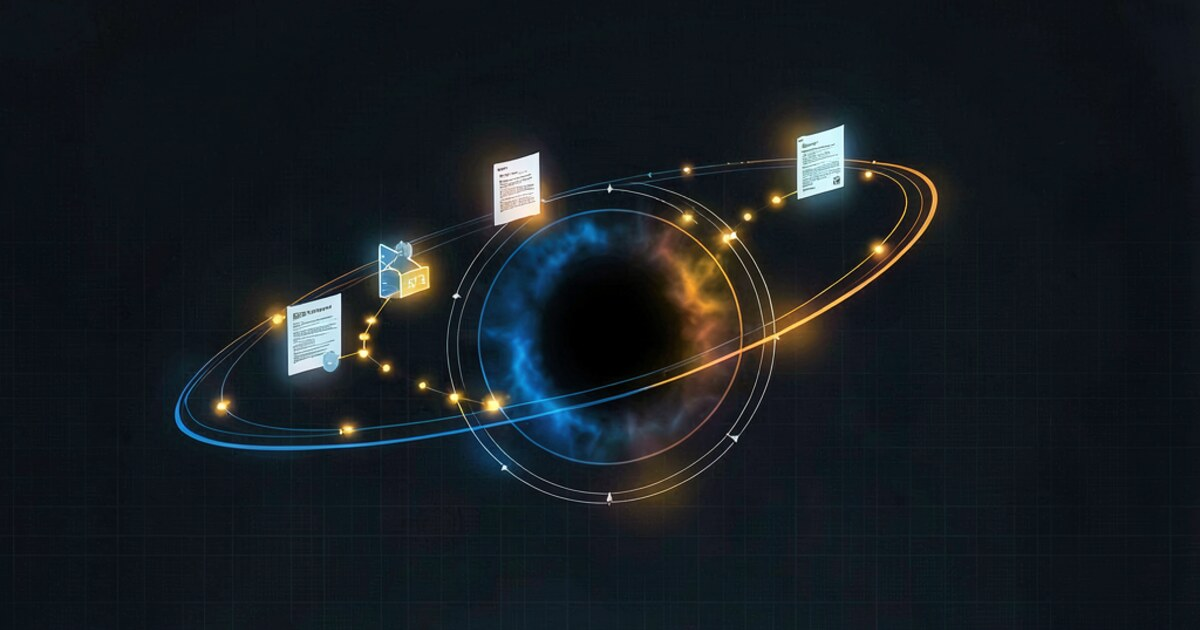
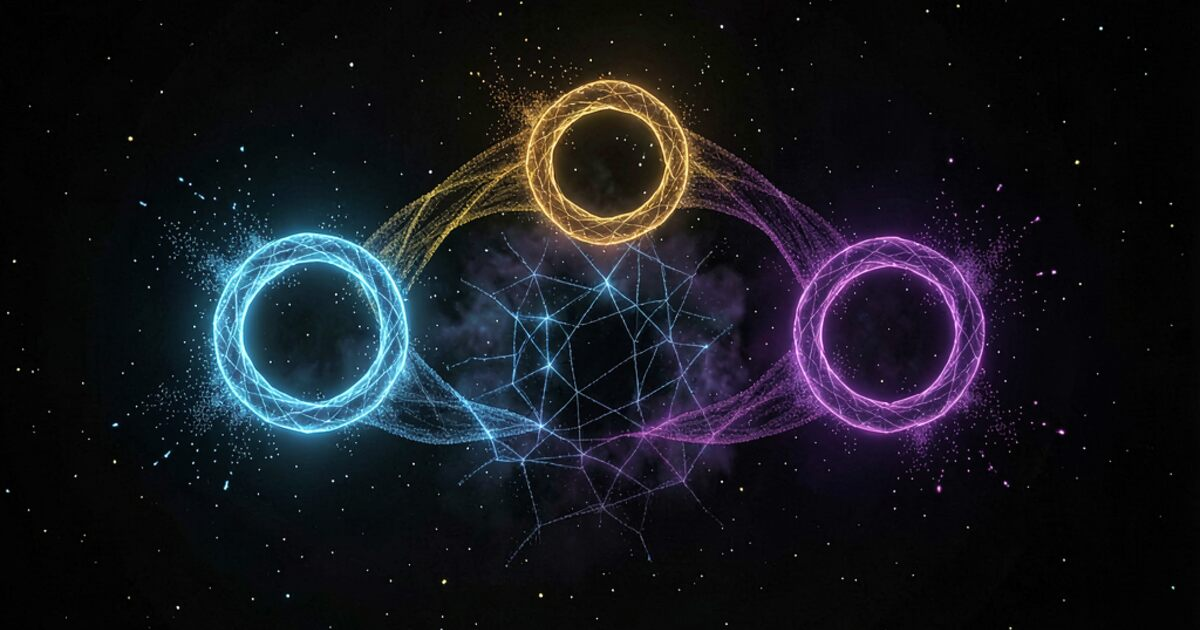
feat(blog): publish applied-compute-specific-intelligence-enterprise-ai-workflow-training

diff --git a/src/content/blog/applied-compute-specific-intelligence-enterprise-ai-workflow-training.md b/src/content/blog/applied-compute-specific-intelligence-enterprise-ai-workflow-training.md
@@ -1,12 +1,12 @@
 ---
-title: "Applied Compute 的「具体智能」：企业 AI 的账，从调用量转向闭环"
+title: "Applied Compute 深度拆解：OpenAI 系团队的「具体智能」，RL 三环架构如何把企业 AI 做成工业品"
 titleEn: "applied-compute-specific-intelligence-enterprise-ai-workflow-training"
-description: "Applied Compute 把自己的产品叫做 Specific Intelligence（具体智能）。不是通用聊天，是窄边界、严标准、每天重复发生的业务任务——识别菜单、审阅合同、处理发票、发现代码缺陷。做法是把企业知识、工作流、绩效标准和历史决策放进训练与部署闭环，让系统逐步接近企业认可的工作方式。30 亿美元估值隐含三层预期：收入质量、成本结构和反馈飞轮。"
-descriptionEn: "Applied Compute calls their product 'Specific Intelligence.' Not general chat — narrow, precise, repeating business tasks: restaurant menus, contract clauses, invoices, code defects. Their approach: feed enterprise knowledge, workflows, standards, and historical decisions into a training-and-deployment loop that continuously improves toward each company's own working standards. The $3B valuation implies three expectations: revenue quality, cost structure, and a feedback flywheel."
+description: "Applied Compute 创始团队来自 OpenAI Codex 与 o1，CEO Yash Patil 的核心判断：前沿模型商品化之后，竞争层移到后训练。产品「具体智能（Specific Intelligence）」以强化学习为核心机制，围绕 Rollout-Eval-Inference 三环构建企业专用 AI 闭环。DoorDash 菜单提取、Cognition 代码缺陷检测、Mercor 人才评估是已披露的三个案例。30 亿美元估值背后是四层硬风险：定制化滑向咨询、开源压低价格、大厂抢占后训练、估值与经营结果的时间差。"
+descriptionEn: "Applied Compute's founding team came from OpenAI Codex and o1. CEO Yash Patil's thesis: as frontier models commoditize, the competitive layer moves to post-training. Their product Specific Intelligence uses reinforcement learning as the core mechanism, building enterprise AI via a Rollout-Eval-Inference loop. Disclosed clients: DoorDash (menu extraction), Cognition (code defect detection), Mercor (talent evaluation). Four hard risks behind the $3B valuation: customization creep toward consulting, open-source price compression, big-tech entering post-training, and the gap between valuation and operating results."
 pubDate: "2026-08-13"
 updatedDate: "2026-08-13"
 category: "Tech-News"
-tags: ["企业AI", "Applied Compute", "具体智能", "RLHF", "开源模型", "AI商业化", "Agent", "Mycelium"]
+tags: ["企业AI", "Applied Compute", "强化学习", "后训练", "Specific Intelligence", "AI商业化", "Agent", "Mycelium"]
 heroImage: "../../assets/images/applied-compute-specific-intelligence-enterprise-ai-workflow-training-banner.jpg"
 author: "Mycelium Protocol"
 ---
@@ -15,74 +15,143 @@ author: "Mycelium Protocol"
 
 ---
 
-Applied Compute 给自己的产品起了一个名字：**Specific Intelligence（具体智能）**。
+Applied Compute 的创始团队来自 OpenAI 的 Codex 和 o1 项目。CEO Yash Patil 在 Modal 的案例视频里说了一句话，算得上是这家公司的核心判断：
 
-通用模型解决的是广泛能力。企业真正需要的，往往是边界很窄、标准很严、每天重复发生的任务——识别一张餐厅菜单后生成结构化门店信息，审阅合同中的特定条款，按照公司内部规则处理一张发票，或者在代码提交后迅速找到某一类缺陷。
+> "Frontier models set the floor, specialized models and custom post-training raise the ceiling."
+>
+> 前沿模型划定了地板，专门化模型和定制后训练才能抬高天花板。
 
-这些任务看起来没有聊天机器人耀眼，却直接连接收入、成本和交付质量。企业愿意付费，前提是模型理解自身上下文，遵循内部标准，出了错误还能被追踪和修正。
+这套判断不是新鲜话，但 Applied Compute 把它变成了一套可以卖给企业的工程产品。他们叫它 **Specific Intelligence（具体智能）**——不是通用聊天，是为一家公司、在它的数据上训练、每次使用后还在持续改进的专用 AI。
 
----
-
-## 产品逻辑：不是 API，是运行中的工作系统
-
-Applied Compute 在官网描述的链路包括四个环节：
-
-1. 摄入机构知识（institutional knowledge）
-2. 针对具体工作流训练 agent
-3. 把 agent 部署到生产环境
-4. 把每次决策和反馈送回训练环节
-
-这套产品思路与通用 API 有明显区别。API 按调用提供能力，企业拿到的是一段可以继续开发的模型服务；Specific Intelligence 更靠近一个**长期运行的工作系统**——企业提供数据、评估标准和反馈，平台把这些东西转化成可持续改进的模型和 agent。
-
-与 Modal 披露的案例给出了具体画面：针对 DoorDash，公司训练过处理餐厅菜单的模型；针对 Cognition，则设计过帮助开发者快速发现代码问题的 agent。每个场景的模型、环境、奖励函数和评测方式都不同，平台做的是把这些差异组织成一套**可重复的训练基础设施**。
+目前已公开的客户是 DoorDash、Cognition 和 Mercor。Modal 的案例文章是目前关于 Applied Compute 最详细的公开披露，以下拆解全部来源于此。
 
 ---
 
-## 开源权重：把控制权留给企业
+## 真实的服务流程：嵌入研究员，编码机构判断
 
-企业开始重视开源模型和开源权重，有成本因素，也有控制权因素。
+Applied Compute 的交付方式是 **embed researchers with each customer**——把研究员嵌进客户组织，把客户的机构判断编码进奖励函数，然后持续跑训练循环，直到模型的行为「像组织的一员，而不只是另一个工具」。
 
-如果所有核心能力都建立在少数封闭模型的接口上，企业会长期承担几种不确定性：价格会变，接口会变，调用限制会变，模型行为也可能在版本更新后发生变化。对金融、法律、客服、供应链和软件研发等业务来说，这种变化会直接进入生产流程。
+这不是提供 API，也不是做咨询项目——更接近一支外部研发团队在帮客户搭建自己的智能层。
 
-开源权重提供了另一条路径。企业可以根据任务选择更小的模型，在自己的环境中完成微调、评估和部署，减少不必要的推理成本，也把关键数据留在安全边界内。**模型本身可以来自外部社区，真正属于企业的差异化则来自数据、奖励函数、评测体系和持续反馈。**
+具体流程分四步：
 
-这也是 Applied Compute 故事里很重要的一层。公司并不需要押注某一个基础模型永久占据优势，它可以在不同模型之间做选择，把价值集中在**模型后训练、agent 执行和企业工作流的连接处**。
+**第一步：还原工作环境。** RL 训练的基础是让 agent 在可重放的环境里反复执行任务。Applied Compute 的标准是环境必须与生产系统保持足够的保真度——完整模拟 Salesforce、Slack、内部 API，而不是用假数据凑数。Patil 说得很直接：「训练 agent 的环境，应该就是它之后真实工作的环境。」训练-测试不匹配是已部署 RL 系统里最稳定出现的失败模式。
 
-从投资角度看，这个位置有好处：基础模型能力快速进步，单纯转售模型调用的利润空间可能被压缩；能把企业数据和业务标准转化成长期使用习惯的产品，客户迁移成本会更高。
+**第二步：定义奖励函数和评测标准。** 什么叫做正确，什么情况需要人工接管，哪些错误不能接受——这些都必须先于训练存在。Applied Compute 把客户的机构判断变成可计算的奖励函数和评测规则，这是每个客户场景里差异最大、价值最集中的部分。
 
-风险也在这里：只要开源模型能力持续提高，企业可能选择自己搭建后训练流程；只要云厂商把微调、评估和 agent 部署做成标准组件，平台层就要面对更强的价格压力。Applied Compute 必须证明，企业需要的是一套**持续迭代的生产系统**，单个开源模型无法替代这套系统。
+**第三步：持续跑 RL 训练循环。** 模型在并行的沙盒环境里成千上万次地尝试任务，每次尝试都被评分，权重向奖励函数认可的行为方向更新。这个循环不是一次性的，生产中的每次决策和反馈会持续进入训练。
 
----
-
-## 企业 AI 的账：从调用量转向闭环
-
-过去判断企业 AI 产品，市场习惯看席位数、调用量、日活和模型使用次数。这些指标可以证明产品被打开过，却很难说明业务价值是否留下来。
-
-更关键的问题是：一个任务交给 agent 以后，完成率是多少？返工率下降了多少？人工审核需要多长时间？模型在真实环境里能不能持续改进？客户愿意把多少流程交给它？
-
-这套系统的关键环节可以拆成四步：
-
-**第一步：还原工作环境。** 模型需要在接近真实生产系统的环境里反复执行任务，训练环境和上线环境之间的差距越小，部署后的意外越少。
-
-**第二步：建立评测标准。** 企业要先定义什么叫做正确，什么情况需要人工接管，什么错误不能接受。没有评测标准，agent 每次回答得好不好，只能靠主观感觉。
-
-**第三步：让反馈进入训练。** 模型完成一次任务以后，结果会被打分、修改或拒绝，这些信息可以进入强化学习和后训练流程。企业真正积累的资产，就藏在这些细小的判断里。
-
-**第四步：把效果放回业务账本。** 模型变聪明本身没有收入；减少人工时间、降低错误损失、缩短交付周期，才会变成财务结果。
+**第四步：生产中持续打分。** 评分层（Evals）不只在训练时运行，在生产中也同步运行，实时打分 agent 的每次决策，把这些 trace 送回训练循环。这是 Applied Compute 能宣称「每次使用后都在改进」的技术基础。
 
 ---
 
-## 30 亿美元估值，隐含三层预期
+## 技术栈：RL 三环结构
 
-Applied Compute 目前年化营收约 5000 万美元，估值约 30 亿美元，对应约 60 倍 ARR 倍数。这个数字背后隐含三层预期：
+Applied Compute 的 RL 训练循环由三个组件构成，基础设施运行在 Modal 上：
 
-**第一层：收入质量。** 5000 万美元年化营收增长很快，但投资人还要知道收入来自哪里——是一次性的模型定制项目，还是多年期合同？是研究人员和工程师投入带来的服务费，还是平台订阅与推理收入？客户付费之后，是否会把更多业务线接进来？这些问题决定收入倍数能不能继续维持。
+```
+Rollouts（探索） → Evals（评分） → Inference（推理）
+     ↑                                    ↓
+     └──────── trace 持续回流 ─────────────┘
+```
 
-**第二层：成本结构。** 企业专用模型往往需要数据清洗、环境搭建、评测设计、模型训练和生产部署，交付成本可能比普通 SaaS 高很多。若每增加一个客户，就必须增加一支研究团队，收入增长会被人力成本抵消。若平台可以沉淀通用工具、训练框架和评测模块，新增客户的边际成本才有机会下降。
+### 1. Rollouts（探索环节）
 
-**第三层：反馈飞轮。** 企业使用越深，Applied Compute 接触到的任务类型越丰富，能够积累的训练方法和交付经验越多。经验如果只留在项目团队里，规模效应有限；如果能沉淀为标准化工具、模板化环境和可迁移的训练流程，平台价值才会逐步释放。
+Agent 在可重放的沙盒环境里并行执行任务，数量从几百到数千个。
 
-这轮估值真正要观察的，不只是公司能不能把收入做到 1 亿美元，而是收入增长过程中，**毛利率、交付周期和客户扩张速度能不能一起改善**。
+- **特征**：突发性高、CPU 密集
+- **关键需求**：环境与生产系统高保真，具有快速启动和快照语义（支持重放）
+- **基础设施**：Modal Sandboxes——提供临时容器、完整文件系统/网络隔离、子秒级冷启动
+
+每个 rollout 里的沙盒环境都在完整模拟实际的业务系统。启动延迟直接影响 GPU 利用率：「CPU 的事越快越好——每一毫秒的沙盒初始化，就是一毫秒 GPU 在空转。」
+
+### 2. Evals（评分环节）
+
+每次 rollout 都需要被打分。评分方式包括：
+
+- 单元测试（确定性规则）
+- 专家撰写的评分标准（rubrics）
+- LLM-as-judge（用语言模型评判语言模型的输出）
+
+评分层的特征是**大规模并行 CPU 计算**，Applied Compute 用 Modal Functions 做无服务器扇出，不需要维护专用集群。同一套评分机制在生产中也持续运行，对 agent 的真实行为实时打分。
+
+### 3. Inference（推理环节）
+
+训练好的模型被部署到生产环境，同时捕获新的 trace 送回训练。推理端需要对 GPU 有优化的访问路径，与 Rollout 侧并行运行。
+
+### 为什么选 Modal
+
+Applied Compute 评估了「市面上几乎所有的沙盒和执行提供商」，最终选择 Modal 的理由：
+
+- 三个组件各有不同的基础设施需求，Modal 能在每一层提供匹配的原语，同时保持各组件之间的状态共享和边界低开销
+- 子秒级冷启动保持训练循环 GPU-bound 而非 CPU-bound
+- 自动重试和每次调用的隔离让大规模并发下的可靠性可控
+
+---
+
+## 三个已披露案例
+
+### DoorDash：商户菜单结构化提取
+
+任务：拍摄一张餐厅菜单照片，输出 DoorDash 生产系统使用的结构化门店信息。
+
+这个任务看起来平凡，实际上有几个技术难点：菜单格式千变万化（手写、印刷、多语言、残缺），提取结果直接进生产数据库，错误率必须极低。Applied Compute 的做法是训练一个专用的 SOTA 模型，用大量真实菜单图片和 DoorDash 的生产标准作为奖励函数。
+
+### Cognition：代码缺陷检测
+
+任务：开发者 save 一次 commit，agent 在几秒内找到特定类型的缺陷。
+
+Cognition 是 Devin（AI 软件工程师）的开发商。除了上面的案例，Cognition 还把 Modal 作为 RL 基础设施和生产推理双重用途：「Modal 支撑着我们的强化学习基础设施和生产推理。一端是百万沙盒，另一端是实时服务。」Applied Compute 为他们设计的 bug-catching agent 在毫秒级响应，直接嵌入开发工作流。
+
+### Mercor：人才评估
+
+Mercor 是 AI 驱动的人才市场。具体的 Applied Compute 任务细节尚未完整披露，但从场景推断：结构化评估候选人、匹配岗位需求、在标准化标准下快速处理大量候选人信息，是这类场景的典型需求。
+
+---
+
+## 开源权重与后训练层
+
+Applied Compute 不需要押注某个特定的基础模型，这在架构上是有意为之的。价值集中在三个地方：
+
+- **奖励函数**：定义什么叫做正确，是每个客户场景里差异最大的部分
+- **评测体系**：让「模型好不好」从主观感觉变成可量化的数字
+- **持续反馈回路**：生产决策持续进入训练，让系统逐步接近企业认可的工作方式
+
+开源权重的技术进步对 Applied Compute 来说不是威胁，而是资源：更便宜的基础能力意味着后训练的价值相对更高。真正属于客户的资产是数据、判断标准和历史反馈，这些不会随着开源模型能力提升而贬值。
+
+---
+
+## 四个硬风险
+
+Applied Compute 面临的四个结构性风险：
+
+**风险一：定制化可能把平台拖回咨询业务。** 企业 AI 需求差异很大，客户往往需要深度改造。Applied Compute 嵌研究员的模式天然靠近咨询，如果不能有效控制项目边界，每个客户都会变成一个独立研发项目，平台的规模效应就很难跑出来。
+
+**风险二：开源模型持续压低基础能力价格。** 模型训练和推理成本下降，对客户是好事，对平台也可能形成压力。平台必须把价值牢牢放在评估、工作流和反馈闭环里，而不是作为模型调用的中间商。Applied Compute 目前的定位是做后训练而非卖推理，但随着客户越来越懂技术，这条边界需要持续守住。
+
+**风险三：封闭模型厂商不会放弃企业后训练市场。** OpenAI、Anthropic、Google 和云厂商都有数据、模型、算力和分发的系统性优势。一旦它们把企业级微调与 agent 部署做成标准产品，Applied Compute 需要用更强的客户理解和更深的业务嵌入来守住位置——这实际上又回到了「嵌入式咨询」的模式，同样面临规模化压力。
+
+**风险四：融资估值和经营结果之间存在时间差。** 上一轮 13 亿美元投后估值已经很高，若本轮约 30 亿美元落地，公司需要快速证明收入增长、客户留存和资本效率。估值上涨给团队带来资源，也给下一轮融资和潜在上市预期增加了压力。
+
+---
+
+## 看企业 AI，别只看模型有多聪明
+
+30 亿美元估值背后，Applied Compute 真正要向投资人证明的是三件事：
+
+**收入质量**：5000 万美元 ARR 来自哪里？是一次性模型定制服务费，还是多年期合同？平台订阅和推理收入各占多少？客户付费之后，会不会把更多业务线接进来？这些问题决定收入倍数能不能持续。
+
+**成本结构**：企业专用模型的交付成本很高。如果每新增一个客户，就必须派驻一支研究团队，收入增长会被人力成本抵消。能否把奖励函数设计、环境搭建、评测模块做成平台工具，让边际成本随规模下降，是决定商业模型质量的核心变量。
+
+**反馈飞轮**：Applied Compute 接触的客户场景越多，积累的训练方法和交付经验越丰富。但经验只留在项目团队里，规模效应有限；能不能沉淀成标准化工具、可迁移的训练流程，才是平台价值能否真正释放的关键。
+
+**实用观察框架**：看企业 AI，不只看模型有多聪明。
+
+- **看收入**：来自平台订阅、推理使用、模型训练，还是一次性服务？
+- **看客户**：企业把多少个工作流交给了 agent？用了多长时间？
+- **看闭环**：feedback 是真正进入训练，还是只是用来展示给客户看的 dashboard？
+
+Yash Patil 说：「每家公司都会开始构建自己的智能层，就像当年构建软件栈一样。」这个方向本身争议不大，争议在于谁来帮它们构建，以及这件事最终是产品、平台还是咨询。
 
 ---
 
@@ -98,80 +167,115 @@ Applied Compute 目前年化营收约 5000 万美元，估值约 30 亿美元，
 
 <!--EN-->
 
-## Applied Compute's "Specific Intelligence": Enterprise AI Shifts from Call Volume to Closed Loop
+## Applied Compute Deep Dive: The OpenAI Alumni's "Specific Intelligence" — How Their RL Loop Turns Enterprise AI into a Manufacturing Process
 
 *by Mycelium Protocol*
 
 ---
 
-Applied Compute named their product **Specific Intelligence**.
+Applied Compute's founding team came out of OpenAI's Codex and o1 projects. CEO Yash Patil put the company's core thesis in one line, in the Modal case study video:
 
-General-purpose models solve broad capability problems. What enterprises actually need are narrow-boundary, strict-standard, repeatedly-occurring tasks — extracting structured data from a restaurant menu, reviewing specific clauses in a contract, processing an invoice according to internal rules, or quickly finding a class of defects after a code commit.
+> "Frontier models set the floor, specialized models and custom post-training raise the ceiling."
 
-These tasks look less glamorous than chatbots, but they connect directly to revenue, costs, and delivery quality. Enterprises will pay — provided the model understands their context, follows internal standards, and when errors occur, can be tracked and corrected.
+This isn't a new idea, but Applied Compute built it into an engineering product you can sell to enterprises. They call it **Specific Intelligence** — not general-purpose chat, but AI built for one company, trained on its proprietary data, improving every time it's used.
 
----
-
-### Product Logic: Not an API, a Running Work System
-
-Applied Compute's described pipeline has four steps:
-
-1. Ingest institutional knowledge
-2. Train agents for specific workflows
-3. Deploy agents to production
-4. Feed each decision and its feedback back into the training loop
-
-This product approach differs significantly from general APIs. An API delivers capability per call; enterprises get a model service they can continue developing. Specific Intelligence looks more like a **long-running operational system** — enterprises provide data, evaluation standards, and feedback; the platform converts those inputs into continuously improving models and agents.
-
-Cases disclosed with Modal give concrete shape to this: for DoorDash, a model trained on restaurant menu processing; for Cognition, an agent designed to help developers quickly find code problems. Each scenario has different models, environments, reward functions, and evaluation methods. The platform's job is to organize those differences into **repeatable training infrastructure**.
+Confirmed clients: DoorDash, Cognition, and Mercor. The Modal case study is currently the most detailed public disclosure about Applied Compute. Everything below traces back to that source.
 
 ---
 
-### Open-Source Weights: Leaving Control with the Enterprise
+### Real Service Flow: Embed Researchers, Encode Institutional Judgment
 
-Enterprise interest in open-source models and weights comes from two places: cost and control.
+Applied Compute delivers by embedding researchers with each customer — encoding the customer's institutional judgment into reward functions, then running the training loop until the model behaves like a member of the organization rather than just another tool.
 
-If all core capabilities are built on the interfaces of a few closed models, enterprises permanently absorb several uncertainties: prices change, interfaces change, rate limits change, model behavior can shift across version updates. For finance, legal, customer service, supply chain, and software development, those changes enter production workflows directly.
+This isn't providing an API. It isn't consulting. It's closer to an external R&D team helping a company build its own intelligent layer.
 
-Open weights offer another path. Enterprises can choose smaller models suited to their tasks, run fine-tuning, evaluation, and deployment inside their own environments, cut unnecessary inference costs, and keep critical data within their security perimeter. **The model can come from the open-source community; the enterprise's actual differentiation comes from its data, reward functions, evaluation systems, and ongoing feedback.**
+The process unfolds in four steps:
 
-This is a meaningful layer in Applied Compute's story. The company doesn't need to bet on any single foundation model maintaining dominance permanently — it can select across models, concentrating value at the junction of **post-training, agent execution, and enterprise workflow integration**.
+**Step one: Recreate the work environment.** RL training requires agents to repeatedly attempt tasks inside replayable environments. Applied Compute's standard: the environment must achieve high fidelity against production systems — a full simulation of Salesforce, Slack, internal APIs — not approximations with dummy data. Patil is direct: "The environment you train your agents in should be the environment they go and do their real work." Train-test mismatch is the most consistent failure mode in deployed RL systems.
 
-From an investment standpoint, this position has advantages: foundation model capability advances fast, the margin on reselling model calls may compress, and a product that converts enterprise data and standards into long-term operational habits raises switching costs.
+**Step two: Define reward functions and evaluation standards.** What counts as correct, when human takeover is required, which errors are unacceptable — all of this must exist before training starts. Applied Compute converts the customer's institutional judgment into computable reward functions and evaluation rubrics. This is where differentiation is most concentrated across customer engagements.
 
-The risks are here too. As long as open-source model capability keeps improving, enterprises may choose to build their own post-training pipelines. As long as cloud providers make fine-tuning, evaluation, and agent deployment into standard components, the platform layer faces stronger pricing pressure. Applied Compute must demonstrate that enterprises need a **continuously iterating production system** that a single open-source model cannot replace.
+**Step three: Run the RL training loop continuously.** The model attempts tasks thousands of times in parallel sandboxes, each attempt scored, weights updated toward the behavior the reward function favors. This is not a one-time project — each production decision and its feedback feeds back into training continuously.
 
----
-
-### The Enterprise AI Ledger: From Call Volume to Closed Loop
-
-The market historically evaluated enterprise AI products on seat count, call volume, DAU, and model usage events. These metrics prove the product got opened — they don't say whether business value stayed.
-
-The more important questions: once a task is handed to an agent, what's the completion rate? How much has rework declined? How long does human review take? Can the model keep improving in a real production environment? How many processes is the customer willing to hand over?
-
-This system's critical steps break into four:
-
-**Step one: Recreate the work environment.** Models need to execute tasks repeatedly in environments that approximate the real production system. The smaller the gap between training environment and live environment, the fewer surprises post-deployment.
-
-**Step two: Establish evaluation standards.** Enterprises must define in advance what "correct" looks like, when human takeover is required, and what errors are unacceptable. Without evaluation standards, whether an agent's answer is good or bad is a matter of subjective impression.
-
-**Step three: Let feedback enter training.** After a model completes a task, the result gets scored, revised, or rejected. That information feeds back into reinforcement learning and post-training. The assets the enterprise is genuinely accumulating are hidden inside those small judgments.
-
-**Step four: Translate back into business terms.** A smarter model generates no revenue by itself. Reducing labor time, cutting error-related losses, and compressing delivery cycles translate into financial outcomes.
+**Step four: Score in production.** The evaluation layer runs not just during training but continuously in production, real-time scoring every agent decision, feeding those traces back into the training loop. This is the technical foundation for claiming the system improves with every use.
 
 ---
 
-### The $3B Valuation and Its Three Implied Expectations
+### Technical Stack: The Three-Ring RL Architecture
 
-Applied Compute's current annualized revenue is roughly $50M, against a ~$3B valuation — approximately 60× ARR. Three expectations are embedded in that number:
+Applied Compute's RL training loop has three components, running on Modal infrastructure:
 
-**First: Revenue quality.** $50M ARR growing fast is interesting, but investors also need to know where it comes from — one-time model customization projects or multi-year contracts? Service fees driven by research and engineering hours, or platform subscriptions and inference revenue? After a customer pays, do they bring additional business lines in? These questions determine whether the revenue multiple can hold.
+```
+Rollouts (explore) → Evals (score) → Inference (serve)
+      ↑                                    ↓
+      └──────── traces flow back continuously ──────────┘
+```
 
-**Second: Cost structure.** Enterprise-specific models often require data cleaning, environment setup, evaluation design, model training, and production deployment. Delivery costs may far exceed typical SaaS. If each new customer requires a new research team, revenue growth gets absorbed by headcount. If the platform can accumulate shared tools, training frameworks, and evaluation modules, the marginal cost of adding customers has a path to decline.
+**Rollouts.** Agents execute tasks in parallel inside replayable sandbox environments — hundreds to thousands at a time.
+- Profile: bursty, CPU-heavy
+- Key requirement: production-fidelity environments with fast startup and snapshot semantics
+- Infrastructure: Modal Sandboxes — ephemeral containers with full filesystem/network isolation and sub-second cold starts
 
-**Third: The feedback flywheel.** The deeper enterprises engage, the broader the task types Applied Compute encounters, and the richer the training methods and delivery knowledge they can accumulate. If that experience stays inside project teams, scale effects are limited. If it crystallizes into standardized tools, templated environments, and transferable training pipelines, platform value gets released over time.
+Startup latency directly translates into GPU utilization on the inference side. "The more you can make the CPU stuff really, really fast, the better — any millisecond of sandbox initialization is a millisecond of idle GPU."
 
-What this round's valuation actually calls for is not just whether the company can reach $100M in revenue, but whether **gross margin, delivery cycle, and customer expansion speed can improve together** as revenue grows.
+**Evals.** Every rollout gets scored through one or more mechanisms: unit tests (deterministic rules), expert-authored rubrics, LLM-as-judge. The profile is massively parallel CPU computation. Applied Compute uses Modal Functions for serverless fan-out without maintaining a dedicated cluster. The same grading layer runs in production, scoring live agent decisions across thousands of concurrent traces.
+
+**Inference.** The trained model serves in production while capturing fresh traces to feed back into training. Inference requires optimized GPU access and runs in parallel with rollouts.
+
+Applied Compute evaluated "almost every sandbox and execution provider on the market" before choosing Modal — the only option that provided the right primitive at each layer of the loop while keeping inter-layer state sharing low-cost.
+
+---
+
+### Three Disclosed Cases
+
+**DoorDash — Restaurant menu extraction:** Photograph a restaurant menu, output the structured storefront representation DoorDash uses in production. Menus vary wildly in format; the output goes directly into production databases with minimal error tolerance. Applied Compute trained a state-of-the-art specialized model using real menu images and DoorDash's production standards as the reward function.
+
+**Cognition — Code defect detection:** A developer saves a commit; the agent surfaces relevant bugs within seconds. Cognition's Devin (AI software engineer) already runs on Modal for RL training and production inference — "millions of sandboxes on one end, real-time serving on the other." Applied Compute's bug-catching agent embeds directly into the development workflow at sub-second response times.
+
+**Mercor — Talent evaluation:** Mercor runs an AI-powered talent marketplace. The specifics remain undisclosed, but the scenario implies: structured candidate evaluation, job matching, and high-throughput processing of applicant information against standardized criteria — a repeating, high-stakes task where specialized models beat general-purpose ones on both accuracy and cost.
+
+---
+
+### Open-Source Weights and the Post-Training Layer
+
+Applied Compute does not need to bet on any specific foundation model. This is architecturally intentional. Value is concentrated in three places:
+
+- **Reward functions**: defining what "correct" looks like — the most differentiated part of every customer engagement
+- **Evaluation systems**: turning "is the model good" from a subjective impression into a quantifiable number
+- **Continuous feedback loop**: production decisions flow back into training, moving the system continuously toward the company's own working standards
+
+Advances in open-source model capability are not a threat to this model — they're a resource. Cheaper base capability means the post-training layer's relative value is higher. The assets that genuinely belong to customers — their data, judgment standards, and historical feedback — don't depreciate as open-source models improve.
+
+---
+
+### Four Hard Risks
+
+**Risk one: Customization creep pulls the platform back toward consulting.** Enterprise AI needs vary widely. Customers frequently require deep adaptation. Applied Compute's embedded-researcher model is naturally close to consulting. Without tight project boundaries, each customer becomes a separate R&D project, and platform-style scale economics become very hard to achieve.
+
+**Risk two: Open-source models keep compressing base capability prices.** Training and inference costs decline. For customers, this is good. For Applied Compute, it creates pressure: the platform must firmly hold its value in evaluation, workflow integration, and feedback loops — not as a model call intermediary. The company's positioning in post-training rather than inference sales is correct, but as customers become more technically sophisticated, this boundary needs continuous defense.
+
+**Risk three: Closed model vendors won't give up the enterprise post-training market.** OpenAI, Anthropic, Google, and cloud providers have systematic advantages in data, models, compute, and distribution. Once they make enterprise fine-tuning and agent deployment into standard products, Applied Compute's defense is stronger customer understanding and deeper business integration — which brings the model closer to embedded consulting again, under the same scaling pressure.
+
+**Risk four: A gap between valuation and operating results.** The previous round's post-money valuation was already high at $1.3B. If the current ~$3B round closes, the company needs to quickly demonstrate revenue growth, customer retention, and capital efficiency. A rising valuation brings resources and adds pressure on the next fundraise and any eventual IPO expectations.
+
+---
+
+### Watching Enterprise AI: Look Past How Smart the Model Is
+
+Behind the $3B valuation, Applied Compute needs to prove three things:
+
+**Revenue quality.** Where does $50M ARR come from? One-time model customization service fees, or multi-year contracts? What's the split between platform subscriptions, inference revenue, and project fees? After paying, do customers bring additional business lines in? These questions determine whether the revenue multiple holds.
+
+**Cost structure.** Enterprise-specific model delivery is expensive. If each new customer requires deploying a research team, revenue growth gets absorbed by headcount. Can the reward function design, environment setup, and evaluation modules become platform tools with declining marginal cost? This is the core variable determining business model quality.
+
+**Feedback flywheel.** The more customer scenarios Applied Compute encounters, the richer the training methods and delivery knowledge they accumulate. But if that knowledge stays inside project teams, scale effects are limited. Whether it crystallizes into standardized tools and transferable training pipelines is whether platform value actually gets released.
+
+**Practical observation framework:**
+- **Revenue**: from platform subscriptions, inference usage, model training, or one-time services?
+- **Customers**: how many workflows has the enterprise handed to agents — and for how long?
+- **Loop**: does feedback genuinely enter training, or does it only appear on a dashboard shown to customers?
+
+Yash Patil: "Every company is going to start to build their own intelligent stack, just like they did with their software stack." The direction itself isn't controversial. What's contested is who builds it for them — and whether this turns out to be a product, a platform, or a consulting firm.
 
 ---
 
